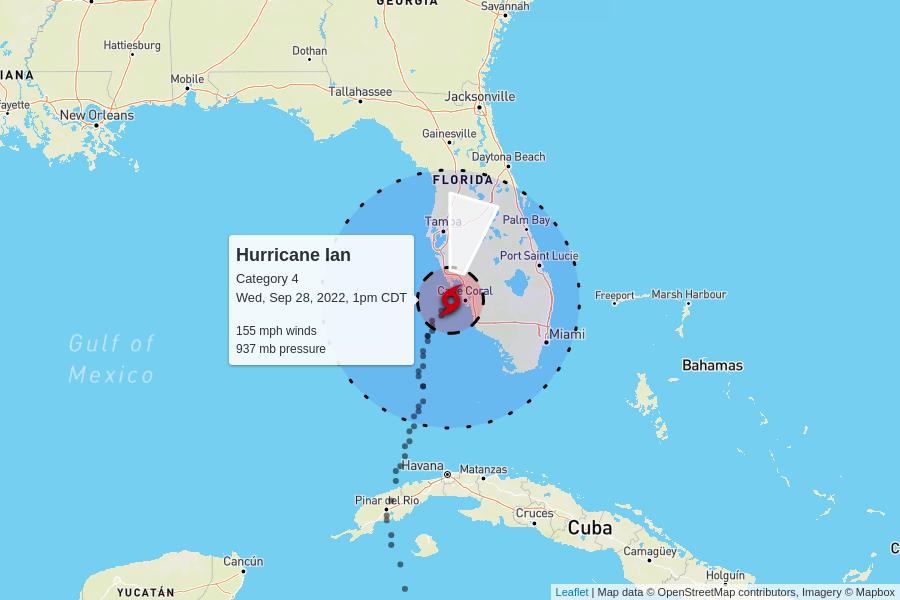
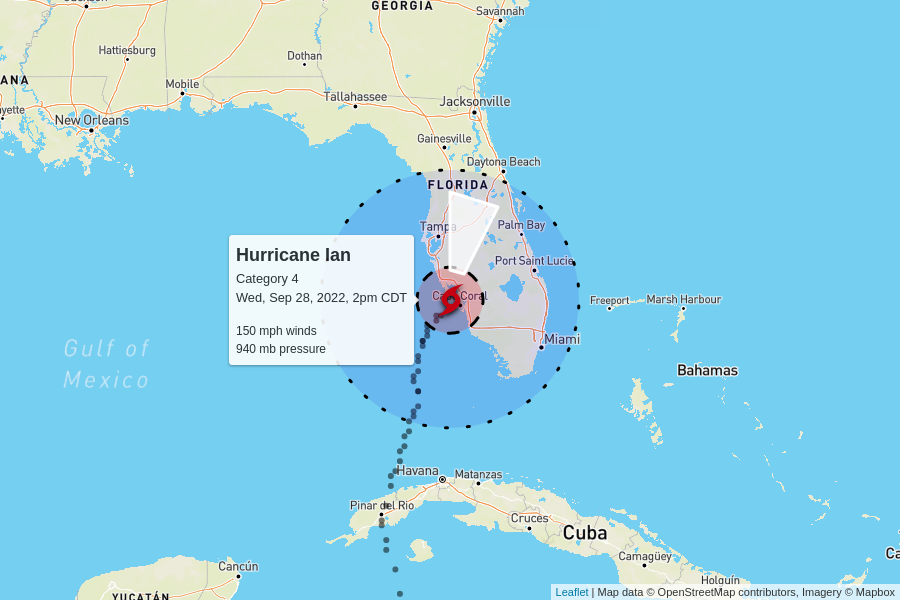
automatic update

diff --git a/docs/index.html b/docs/index.html
@@ -100,7 +100,7 @@
         <td colspan="6" class="storm category-4" >
           <h2>
             Hurricane Ian - Category 4
-            <p class="updated">last updated <span data-time>2022-09-28T18:00:00.000Z</span></p>
+            <p class="updated">last updated <span data-time>2022-09-28T19:10:00.000Z</span></p>
           </h2>
         </td>
       </tr>
@@ -115,8 +115,8 @@
       </tr>
       <tr>
         <td class="spacer"></td>
-        <td>155 mph</td>
-        <td>937 mb</td>
+        <td>150 mph</td>
+        <td>940 mb</td>
         <td>
           9 mph to the north-northeast
           <br/>
